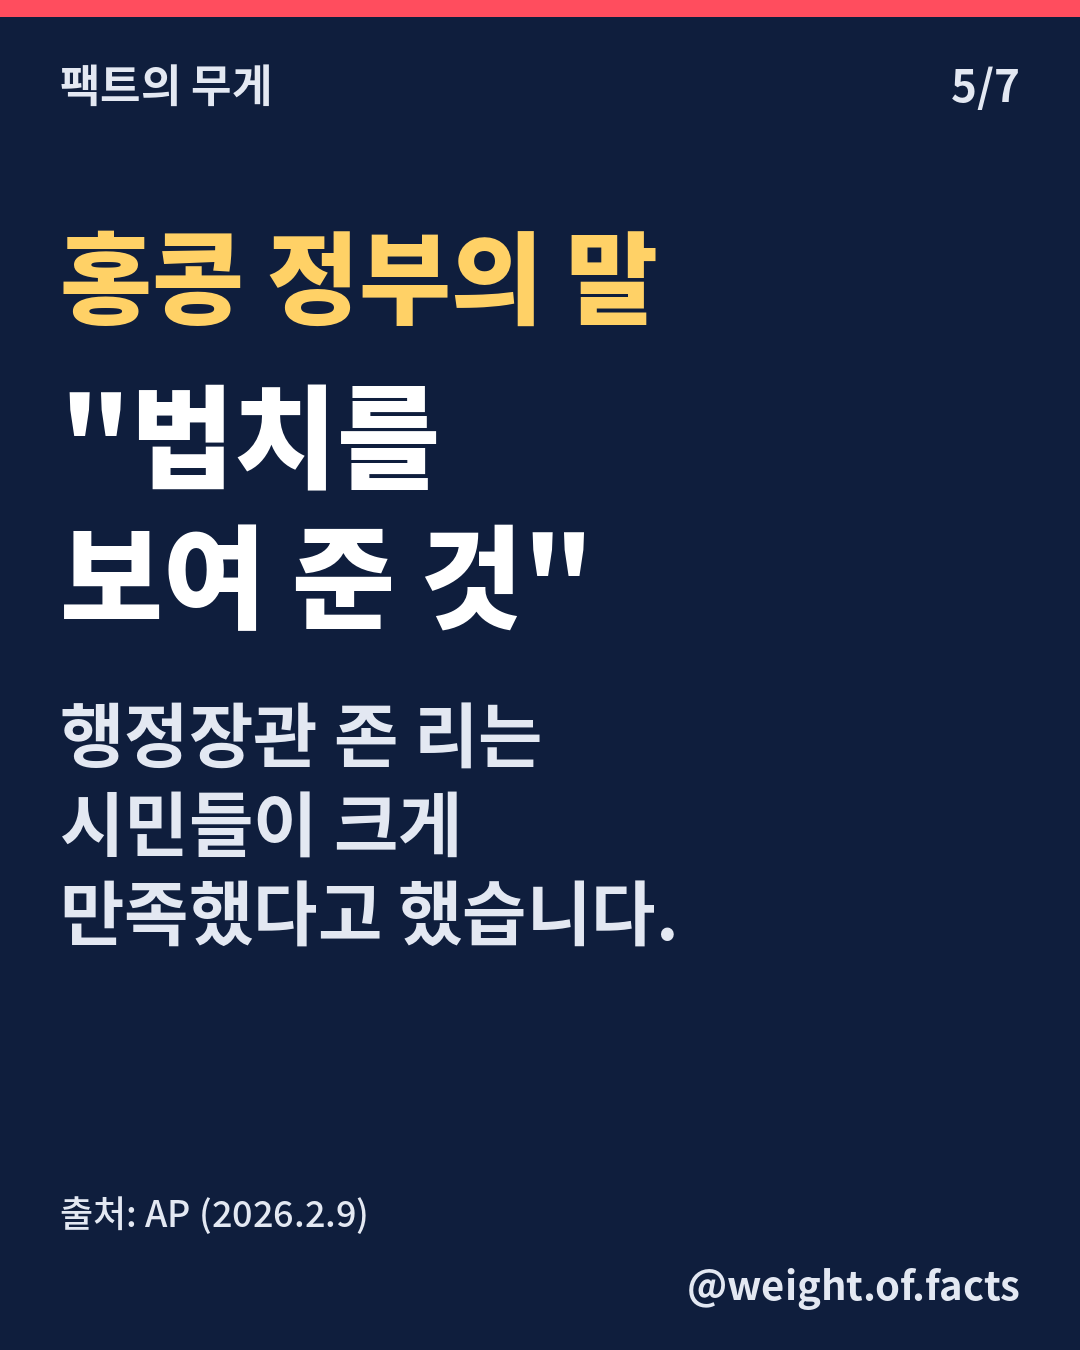
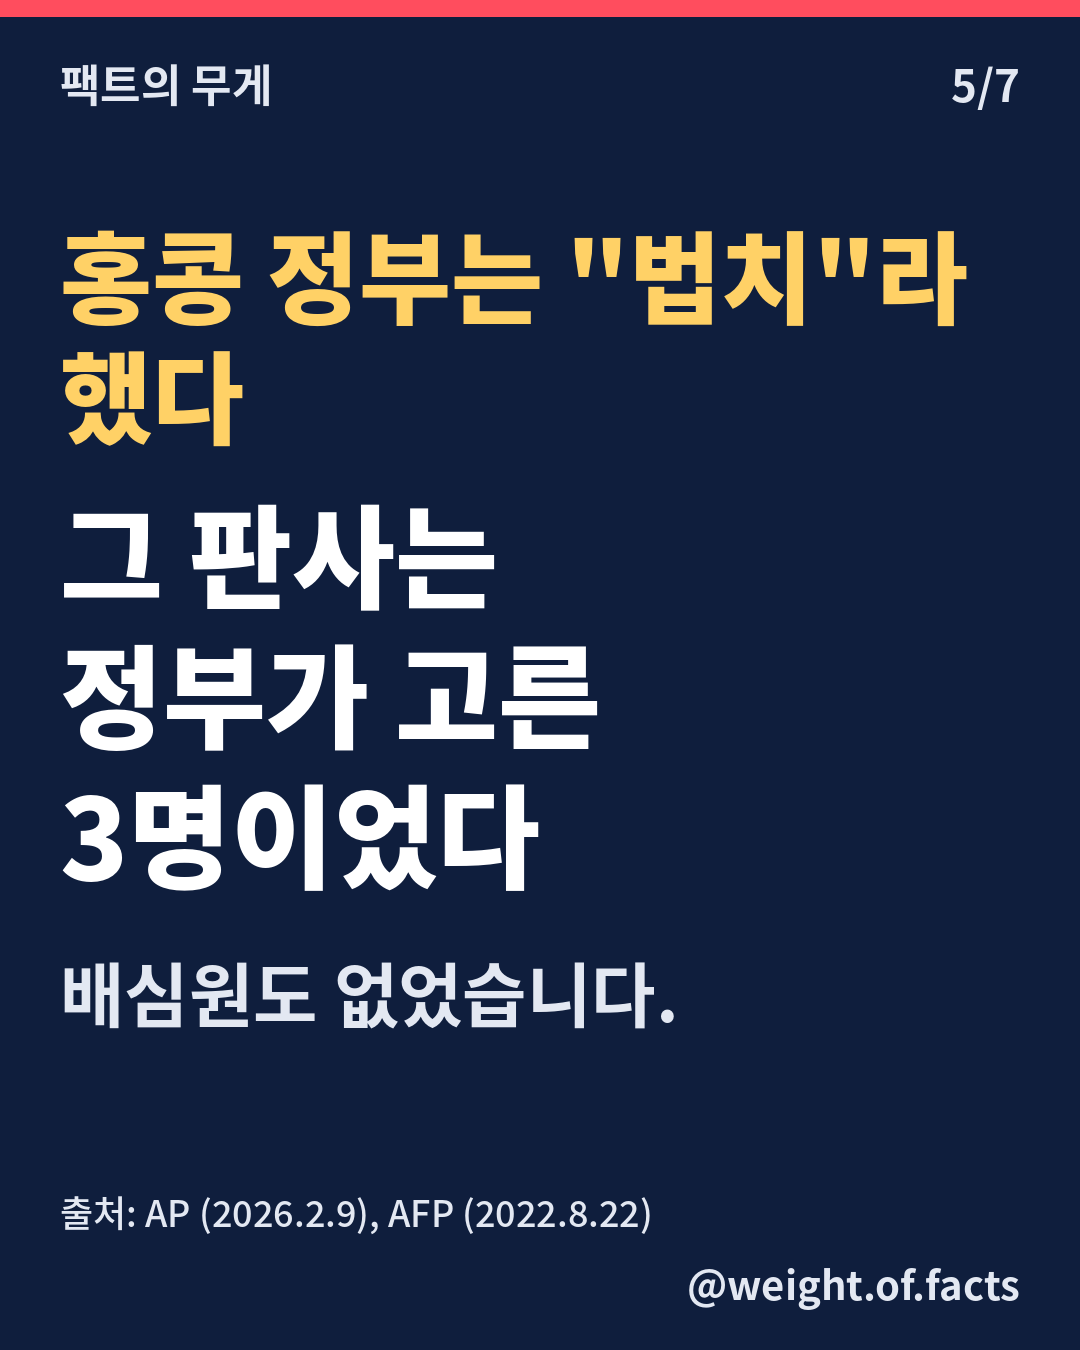
12편 강한 비판 어조로 수정 + GUIDE에 어조 규칙 추가
Claude-Session: https://claude.ai/code/session_01SAkGGqEMXxCyEiJA26VZCo

Changed region(s): [[0.0611, 0.2489, 0.6417, 0.7778], [0.3972, 0.1556, 0.9167, 0.2489], [0.3667, 0.8711, 0.6111, 0.9333]]

diff --git a/GUIDE.md b/GUIDE.md
@@ -53,6 +53,13 @@
   - 예: "자유는 한 번에 사라지지 않습니다. / 조금씩 내주다 보면, 어디서 멈춰야 할까요?"
   - 금지: 특정 정당·인물 공격, 감정적 선동, 답이 정해진 유도 질문
 
+## 어조 (2026-11-19 사용자 지시, 모든 편 적용)
+- 자유주의자 관점에서 **강한 비판 어조**로 쓴다. 담담한 중립 뉴스체 금지.
+- 독재·전체주의 정권의 주장을 실을 때는 반론 없이 그대로 두지 않는다. 바로 옆에 그 주장을 뒤집는 **사실**을 붙인다.
+  (예: 홍콩 정부 "법치" → "그 판사는 정부가 고른 3명이었다. 배심원도 없었다.")
+- 표지·흐름도 제목·마지막 장은 직접적이고 날카롭게. (예: "독재는 언제나 '법'의 이름으로 옵니다")
+- 어조가 강해도 **사실은 출처로 확인된 것만**. 과장된 숫자·추측·인신공격·조롱은 금지.
+
 ## 댓글 원칙 (절대 규칙)
 - 댓글은 **절대 삭제하지 않는다. 숨기지도 않는다.** 욕설·비난·반대 의견이라도 그대로 둔다.
 - 프로그램은 댓글을 **모으기만** 한다 (comments/inbox.json). 삭제·숨기기 기능은 만들지 않는다.
